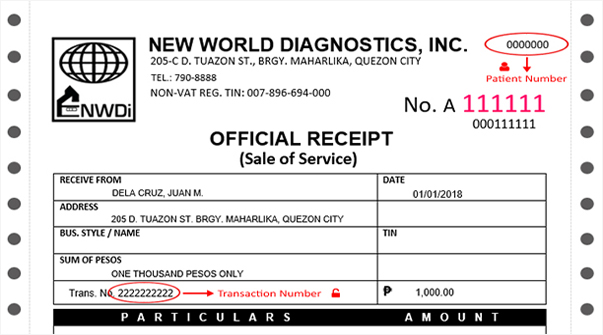
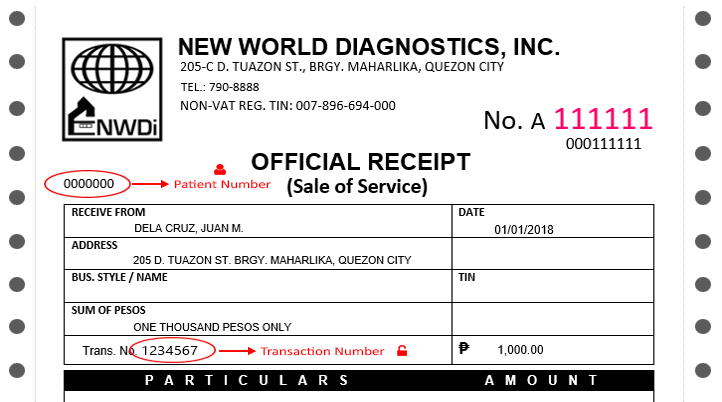
Responsive online result
revised login form and OR image

diff --git a/ui/online-result.html b/ui/online-result.html
@@ -1,31 +1,41 @@
-<div class="e-result">
-    <div class="media">
+
+<div class="row e-result">
+    <div class="col-lg-6 media mb-2">
+            <div class="jumbotron pb-0 pt-0" style="background:#fff;">
         <div class="media-body">
-            <div class="card">
+            <div class="card" style="border:none">
                 <div class="card-body">
-                    <div class="input-group mb-2">
-                        <div class="input-group-prepend">
+                        <img src="/images/view-result.png" class="mb-4" style="width:15%; display:block; margin-left:auto; margin-right:auto;"/>
+
+                    <div class="input-group mb-3">
+                        <!-- <div class="input-group-prepend">
                             <div class="input-group-text"><i class="fa fa-user"></i></div>
-                        </div>
-                        <input type="text" class="form-control" placeholder="Patient Number" id="patient_number" value="461138-2011">
+                        </div> -->
+                        <input type="text" placeholder="Patient Number" id="patient_number" value="461138-2011">
                     </div>
-                    <div class="input-group mb-2">
-                        <div class="input-group-prepend">
+                    <div class="input-group mb-4">
+                        <!-- <div class="input-group-prepend">
                             <div class="input-group-text"><i class="fa fa-unlock-alt"></i></div>
-                        </div>
-                        <input type="password" class="form-control" placeholder="Transaction Number" id="transaction_number" value="12345">
+                        </div> -->
+                        <input type="password" placeholder="Transaction Number" id="transaction_number" value="12345">
                     </div>
-                    <button class="btn w-100" onclick="validate()">Login</button>
+                    <button class="btn w-100 p-1" onclick="validate()" id="btn-login">Login </button>
                     <p class="pt-3">
-                        <i>Note:</i>
-                        By clicking "Login" I agree that I have read the <button style="vertical-align: baseline;" type="button" class="btn btn-link p-0 m-0" data-toggle="modal" data-target=".privacy-notice-modal">Privacy Notice</button>.  
+                        <a style="font-size:13px;"><b>Note: </b>By clicking "Login" I agree that I have read the<button style="vertical-align: baseline;" type="button" class="btn btn-link p-0 m-0" data-toggle="modal" data-target=".privacy-notice-modal"> &nbsp;<i>Privacy Notice</i></button>. </a>
                     </p>
                 </div>
+            
             </div>
         </div>
-        <img class="ml-3" src="/images/official-receipt-guide.jpg" />
+        </div>
+    </div>
+
+    <div class="col-lg-6">
+            <img class="or-img" src="/images/official-receipt-guide.jpg" />
     </div>
 </div>
+
+
 <div class="e-result-list d-none">
     <button class="btn btn-primary mb-2" onclick="logout()">Logout</button>
     <button class="btn btn-primary mb-2">Reload</button>

diff --git a/ui/index.css b/ui/index.css
@@ -351,3 +351,30 @@ border-bottom: solid #007bff 2px
 	font-size:14px;
 }
 
+.or-img {
+    width: 100%;
+    height: auto;
+    border-radius: 5px;
+}
+
+#transaction_number {
+    border:none;
+    border-bottom:solid 2px #116efb;
+    border-radius:0px;
+    text-align:center; 
+    width:100%;
+    font-size:12px;
+}
+
+#patient_number {
+    border:none;
+    border-bottom:solid 2px #116efb;
+    border-radius:0px;
+    text-align:center; 
+    width:100%;
+    font-size:12px;
+}
+#btn-login {
+    background:#116efb;
+    color:#fff;
+}

diff --git a/ui/home.html b/ui/home.html
@@ -15,23 +15,5 @@
 	
     </div>
 
-
-    <div class="row">
-            <div class="col-md-6">
-                <li>dskjfs</li>
-                <li>sndfsdk</li>
-                <li>skflsk</li>
-                
-            </div>
-            <div class="col-md-6">
-                    <li>dskjfs</li>
-                    <li>sndfsdk</li>
-                    <li>skflsk</li>
-                    
-                </div>
-
-        </div>
-
-
 </div>
 </div>
